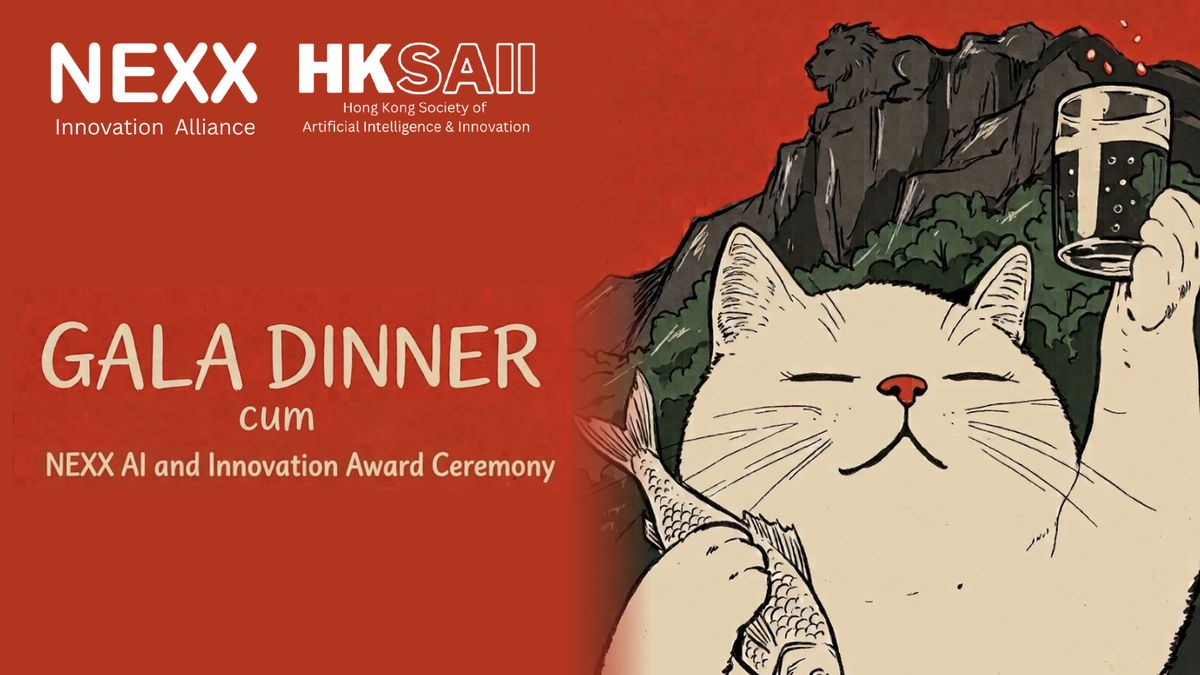
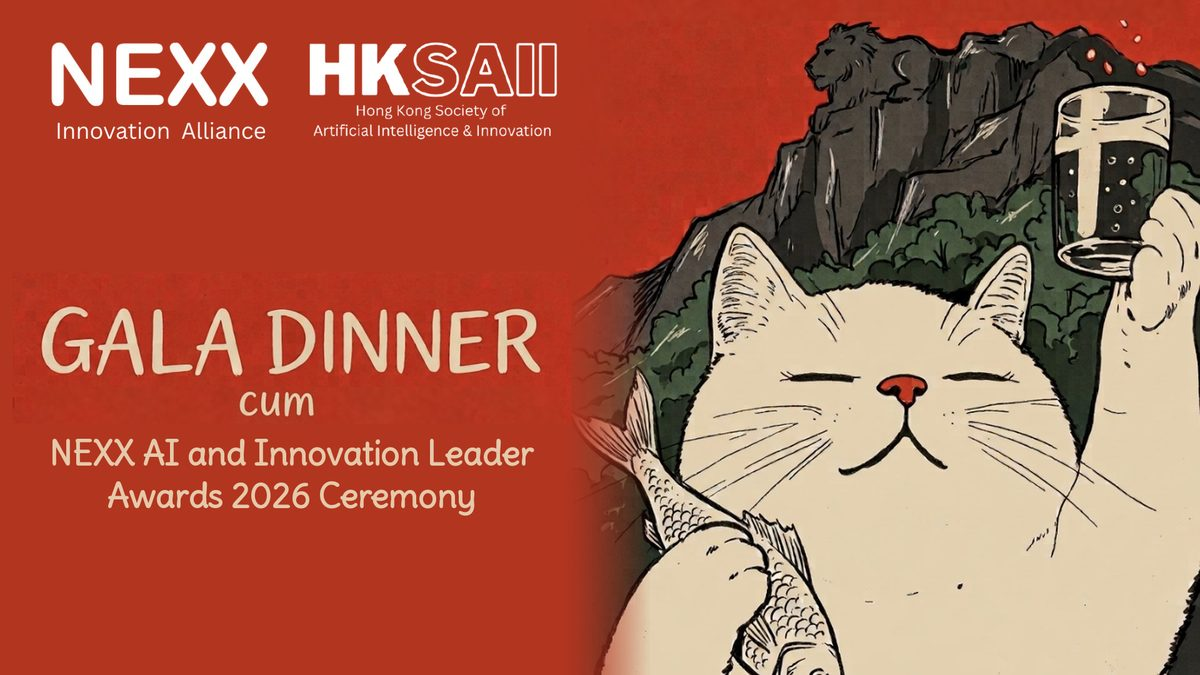
New awards title, DPO keynote speaker, fireworks on confirmation
Claude-Session: https://claude.ai/code/session_01HHoCkm1VeKnvzYjzgygSx2

Changed region(s): [[0.0308, 0.4356, 0.4625, 0.7778], [0.0308, 0.0622, 0.4625, 0.2178]]

diff --git a/index.html b/index.html
@@ -4,7 +4,7 @@
 <meta charset="utf-8">
 <meta name="viewport" content="width=device-width, initial-scale=1">
 <title>Gala Dinner 2026 · Menu Selection</title>
-<meta name="description" content="Gala Dinner cum NEXX AI and Innovation Award Ceremony — 3 Dec 2026, CityU. Choose your main course.">
+<meta name="description" content="Gala Dinner cum NEXX AI and Innovation Leader Awards 2026 Ceremony — 3 Dec 2026, CityU. Choose your main course.">
 <meta property="og:title" content="Gala Dinner 2026 · Choose your main course">
 <meta property="og:image" content="https://superdragonmann.github.io/gala-dinner-2026/assets/og.jpg">
 <meta name="robots" content="noindex">
@@ -33,6 +33,8 @@ img{max-width:100%}
 .stage>img.base{position:absolute;inset:0;width:100%;height:100%;display:block}
 .logos{position:absolute;left:4.2%;top:6.2%;height:14.5%;display:flex;gap:3.4cqw;align-items:center;z-index:2}
 .logos img{height:100%;width:auto;display:block}
+.subt{position:absolute;left:1.05%;width:46.6%;top:63.6%;text-align:center;font-family:Delius,cursive;font-size:2.82cqw;line-height:1.26;color:#e5c9aa;-webkit-text-stroke:.025em #e5c9aa;letter-spacing:.005em;z-index:2;text-shadow:0 1px 0 rgba(0,0,0,.08)}
+.subt span{display:block;white-space:nowrap}
 .ly{position:absolute;will-change:transform}
 .ly img{display:block;width:100%;height:100%}
 .arm{left:86.771%;top:10.926%;width:13.229%;height:70.093%;transform-origin:66.9% 95.5%;animation:toast 5.2s ease-in-out infinite}
@@ -204,6 +206,9 @@ textarea:focus{outline:none;border-color:var(--red);box-shadow:0 0 0 4px rgba(17
 .linkbox code{display:block;word-break:break-all;margin:6px 0;color:var(--ink);font-size:13.5px}
 .done-actions{display:flex;gap:12px;justify-content:center;flex-wrap:wrap;margin-top:22px}
 #confetti{position:fixed;inset:0;width:100%;height:100%;pointer-events:none;z-index:50}
+#night{position:fixed;inset:0;pointer-events:none;z-index:49;background:radial-gradient(ellipse at 50% 30%,rgba(28,12,36,.72),rgba(10,5,16,.88));opacity:0}
+#night.on{animation:night 5.4s ease-in-out forwards}
+@keyframes night{0%{opacity:0}12%{opacity:1}75%{opacity:1}100%{opacity:0}}
 
 /* ---------- Rundown ---------- */
 .rundown{list-style:none;margin:0 auto;padding:0;max-width:820px;position:relative}
@@ -241,9 +246,10 @@ footer img{height:44px;width:auto}
 <body>
 
 <header class="hero" id="hero">
-  <div class="stage" role="img" aria-label="Gala Dinner cum NEXX AI and Innovation Award Ceremony. A white cat in front of Lion Rock raises a glass and holds two fish.">
+  <div class="stage" role="img" aria-label="Gala Dinner cum NEXX AI and Innovation Leader Awards 2026 Ceremony. A white cat in front of Lion Rock raises a glass and holds two fish.">
     <img class="base" src="assets/hero-base.jpg" alt="">
     <div class="logos"><img src="assets/logo-nexx.png" alt="NEXX Innovation Alliance"><img src="assets/logo-hksaii.png" alt="Hong Kong Society of Artificial Intelligence and Innovation (HKSAII)"></div>
+    <div class="subt" aria-hidden="true"><span>NEXX AI and Innovation Leader</span><span>Awards 2026 Ceremony</span></div>
     <div class="ly fish2"><img src="assets/hero-fish2.webp" alt=""></div>
     <div class="ly fish1"><img src="assets/hero-fish1.webp" alt=""></div>
     <div class="ly arm"><img src="assets/hero-arm.webp" alt="">
@@ -366,18 +372,18 @@ footer img{height:44px;width:auto}
   <ol class="rundown">
     <li><div class="t">6:00 – 6:30pm</div><div class="box"><div class="what">Reception Open</div></div></li>
     <li><div class="t">6:30 – 6:35pm</div><div class="box"><div class="what">Opening Remarks</div><div class="who2">Mann Yim, President, Hong Kong Society of Artificial Intelligence and Innovation (HKSAII)</div></div></li>
-    <li><div class="t">6:35 – 6:45pm</div><div class="box"><div class="what">Keynote</div><div class="who2">Digital Policy Office (DPO) — speaker to be confirmed</div></div></li>
+    <li><div class="t">6:35 – 6:45pm</div><div class="box"><div class="what">Keynote</div><div class="people"><div><b>Digital Policy Office (DPO)</b></div><div>Ms. Cari Wu, Assistant Commissioner (Mainland and Industry Collaboration)</div></div></div></li>
     <li><div class="t">6:45 – 7:00pm</div><div class="box"><div class="what">Fireside Chat: Navigating the AI Shift — Talent Development, Data Governance, and the Future of Business Models</div>
       <div class="people"><div><b>Moderator</b> · Mann Yim, President, Hong Kong Society of Artificial Intelligence and Innovation (HKSAII)</div><div><b>Guest Speaker</b> · SK Cheong, Chairman of the Hong Kong Economic Journal and Vice Chairman of HK Television Entertainment (ViuTV)</div></div></div></li>
     <li class="hl"><div class="t">7:00 – 8:20pm</div><div class="box"><div class="what">Gala Dinner</div><div class="who2">Your menu, served</div></div></li>
-    <li class="hl"><div class="t">8:20 – 8:35pm</div><div class="box"><div class="what">2nd Edition NEXX AI and Innovation Leader Awards</div><div class="who2">Awardees: CIOs / CTOs</div></div></li>
+    <li class="hl"><div class="t">8:20 – 8:35pm</div><div class="box"><div class="what">NEXX AI and Innovation Leader<br>Awards 2026 Ceremony</div><div class="who2">Awardees: Distinguished Senior IT Executives / CIOs / CTOs</div></div></li>
     <li><div class="t">8:35 – 9:00pm</div><div class="box"><div class="what">Group Photo and Networking</div></div></li>
   </ol>
 </section>
 </main>
 
 <footer><div class="fl2"><img src="assets/logo-nexx.png" alt="NEXX Innovation Alliance"><img src="assets/logo-hksaii.png" alt="HKSAII"></div>NEXX Innovation Alliance · Hong Kong Society of Artificial Intelligence and Innovation</footer>
-<canvas id="confetti" aria-hidden="true"></canvas>
+<div id="night" aria-hidden="true"></div><canvas id="confetti" aria-hidden="true"></canvas>
 
 <script src="config.js"></script>
 <script>
@@ -459,7 +465,7 @@ function fill(){
 }
 function calLinks(g){
   const m=MAINS[g.main]||{en:''}, link=g.link||PAGE;
-  const title='Gala Dinner cum NEXX AI and Innovation Award Ceremony';
+  const title='Gala Dinner cum NEXX AI and Innovation Leader Awards 2026 Ceremony';
   const loc='9/F, Bank of China (Hong Kong) Complex, City University of Hong Kong, Kowloon Tong';
   const det='Your main course: '+g.main+') '+m.en+'\nReception opens 6:00pm.\nMenu link: '+link;
   $('gcal').href='https://calendar.google.com/calendar/render?action=TEMPLATE&text='+encodeURIComponent(title)+'&dates=20261203T100000Z/20261203T130000Z&location='+encodeURIComponent(loc)+'&details='+encodeURIComponent(det);
@@ -506,14 +512,32 @@ $('copyBtn').addEventListener('click',()=>{ const t=$('myLink').textContent; nav
 
 function confetti(){
   if(matchMedia('(prefers-reduced-motion: reduce)').matches) return;
-  const cv=$('confetti'), ctx=cv.getContext('2d'), dpr=Math.min(devicePixelRatio||1,2);
-  cv.width=innerWidth*dpr; cv.height=innerHeight*dpr; ctx.setTransform(dpr,0,0,dpr,0,0);
-  const cols=['#b2351f','#c9973a','#3e5a3b','#f6ead3','#fffaf0','#c8412b'];
-  const P=Array.from({length:180},(_,i)=>({x:innerWidth/2+(Math.random()-.5)*140,y:innerHeight*.32,vx:(Math.random()-.5)*15,vy:-Math.random()*14-5,s:5+Math.random()*7,r:Math.random()*6,vr:(Math.random()-.5)*.3,c:cols[i%cols.length],f:Math.random()<.3}));
-  let t=0; (function tick(){ ctx.clearRect(0,0,innerWidth,innerHeight); t++;
-    P.forEach(p=>{p.vy+=.32;p.vx*=.99;p.x+=p.vx;p.y+=p.vy;p.r+=p.vr;ctx.save();ctx.translate(p.x,p.y);ctx.rotate(p.r);ctx.fillStyle=p.c;ctx.globalAlpha=Math.max(0,1-t/180);
-      if(p.f){ctx.beginPath();ctx.arc(0,0,p.s/2,0,7);ctx.fill();} else ctx.fillRect(-p.s/2,-p.s/4,p.s,p.s/2); ctx.restore();});
-    if(t<180) requestAnimationFrame(tick); else ctx.clearRect(0,0,innerWidth,innerHeight); })();
+  const cv=$('confetti'), ctx=cv.getContext('2d'), dpr=Math.min(devicePixelRatio||1,2), W=innerWidth, H=innerHeight;
+  cv.width=W*dpr; cv.height=H*dpr; ctx.setTransform(dpr,0,0,dpr,0,0);
+  const night=$('night'); night.classList.remove('on'); void night.offsetWidth; night.classList.add('on');
+  const cols=['#ffd36b','#ff6b4a','#ffffff','#f6ead3','#7fd1a1','#ff9fd0','#c9973a'];
+  const rockets=[], sparks=[];
+  const small=W<600, shots=small?7:11, scale=small?.7:1;
+  for(let i=0;i<shots;i++) rockets.push({x:W*(.15+Math.random()*.7), y:H+10, ty:H*(.14+Math.random()*.34), vy:-(9+Math.random()*4)*Math.sqrt(H/800), t:-i*11-Math.random()*8, c:cols[i%cols.length]});
+  function burst(x,y,c){
+    const n=small?46:70, two=Math.random()<.5, c2=cols[(cols.indexOf(c)+2)%cols.length];
+    for(let i=0;i<n;i++){ const ang=i/n*Math.PI*2, sp=(3+Math.random()*3.4)*scale*(Math.random()<.15?1.5:1);
+      sparks.push({x,y,px:x,py:y,vx:Math.cos(ang)*sp,vy:Math.sin(ang)*sp,life:1,dec:.011+Math.random()*.01,c:two&&i%2?c2:c,tw:Math.random()<.3}); }
+    for(let i=0;i<14;i++){ const ang=Math.random()*Math.PI*2, sp=Math.random()*1.2; sparks.push({x,y,px:x,py:y,vx:Math.cos(ang)*sp,vy:Math.sin(ang)*sp,life:1,dec:.03,c:'#fff',tw:false}); }
+  }
+  let f=0;
+  (function tick(){
+    f++; ctx.globalCompositeOperation='destination-out'; ctx.fillStyle='rgba(0,0,0,.22)'; ctx.fillRect(0,0,W,H); ctx.globalCompositeOperation='lighter';
+    rockets.forEach(r=>{ r.t++; if(r.t<0||r.done) return;
+      r.py=r.y; r.y+=r.vy; r.vy*=.985; ctx.strokeStyle=r.c; ctx.lineWidth=2.2; ctx.beginPath(); ctx.moveTo(r.x,r.py+10); ctx.lineTo(r.x,r.y); ctx.stroke();
+      if(r.y<=r.ty||r.vy>-1.2){ r.done=true; burst(r.x,r.y,r.c); } });
+    for(let i=sparks.length-1;i>=0;i--){ const p=sparks[i]; p.px=p.x; p.py=p.y; p.vx*=.975; p.vy=p.vy*.975+.045; p.x+=p.vx; p.y+=p.vy; p.life-=p.dec;
+      if(p.life<=0){sparks.splice(i,1);continue;}
+      ctx.globalAlpha=p.tw?(Math.random()<.5?p.life:p.life*.2):p.life; ctx.strokeStyle=p.c; ctx.lineWidth=2; ctx.beginPath(); ctx.moveTo(p.px,p.py); ctx.lineTo(p.x,p.y); ctx.stroke(); }
+    ctx.globalAlpha=1; ctx.globalCompositeOperation='source-over';
+    if(f<330 && (sparks.length||rockets.some(r=>!r.done))) requestAnimationFrame(tick);
+    else { ctx.clearRect(0,0,W,H); night.classList.remove('on'); }
+  })();
 }
 
 const io=new IntersectionObserver(es=>es.forEach(x=>{if(x.isIntersecting){x.target.classList.add('in');io.unobserve(x.target);}}),{threshold:.1});
